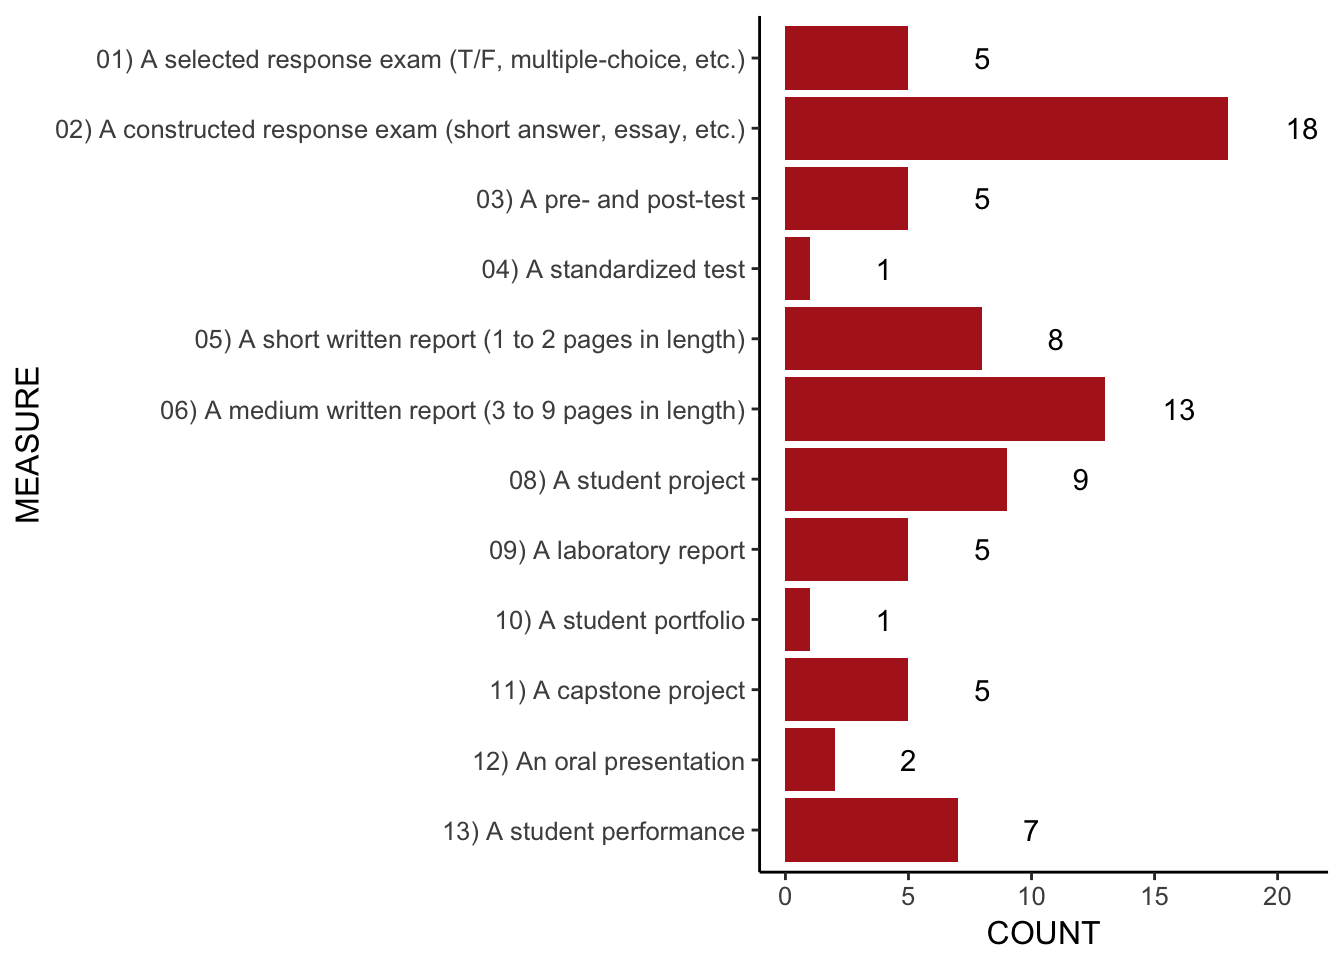
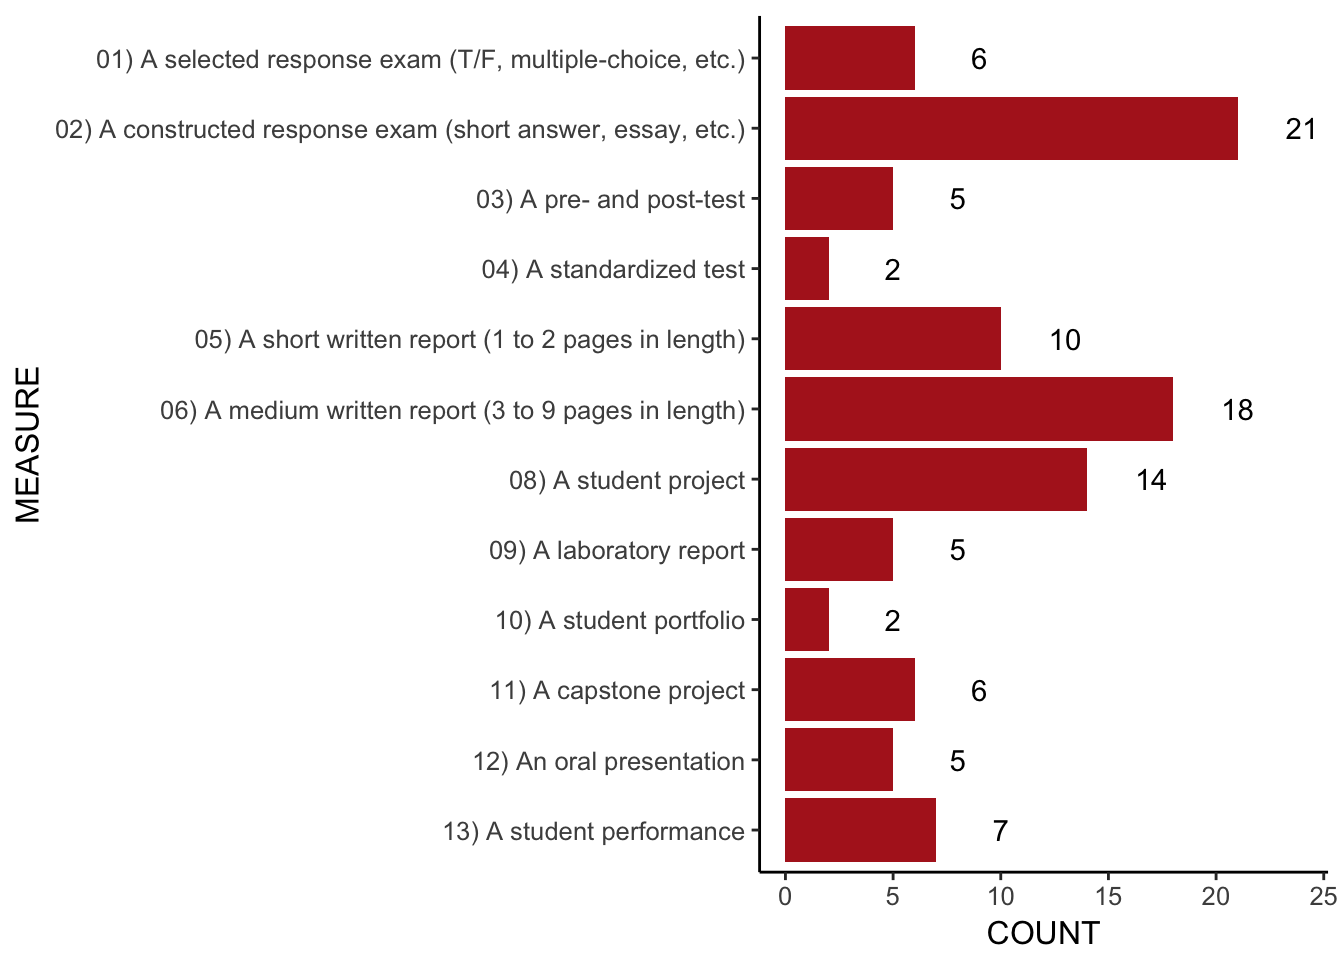
Rerun the build on 2018-03-21 to update the registration numbers.

diff --git a/docs/Report-1801.html b/docs/Report-1801.html
@@ -163,7 +163,7 @@
 </div>
 <div id="results" class="section level1 unnumbered">
 <h1>Results and Discussion</h1>
-<p>A total of 79 registrations have been completed as of March 14, 2018. This includes a total of 63 different courses. The distribution of the registrations between the eight core competencies is shown in figure <a href="#fig:plotByCompetency">1</a>.</p>
+<p>A total of 101 registrations have been completed as of March 21, 2018. This represents the efforts of 46 faculty, and includes a total of 72 different courses. The distribution of the registrations between the eight core competencies is shown in figure <a href="#fig:plotByCompetency">1</a>.</p>
 <div class="figure"><span id="fig:plotByCompetency"></span>
 <img src="Report-1801_files/figure-html/plotByCompetency-1.png" alt="Distribution of course registrations by core competency." width="672" />
 <p class="caption">
@@ -171,11 +171,11 @@ Figure 1: Distribution of course registrations by core competency.
 </p>
 </div>
 <ul>
-<li>A total of 29 exams were registered (36.7%).<br />
+<li>A total of 34 exams were registered (33.7%).<br />
 </li>
-<li>A total of 41 student products were registered (51.9%).<br />
+<li>A total of 55 student products were registered (54.5%).<br />
 </li>
-<li>A total of 9 student performances were registered (11.4%).</li>
+<li>A total of 12 student performances were registered (11.9%).</li>
 </ul>
 <div class="figure"><span id="fig:plotByMeasure"></span>
 <img src="Report-1801_files/figure-html/plotByMeasure-1.png" alt="Distribution of course registrations by standardized measure." width="672" />
